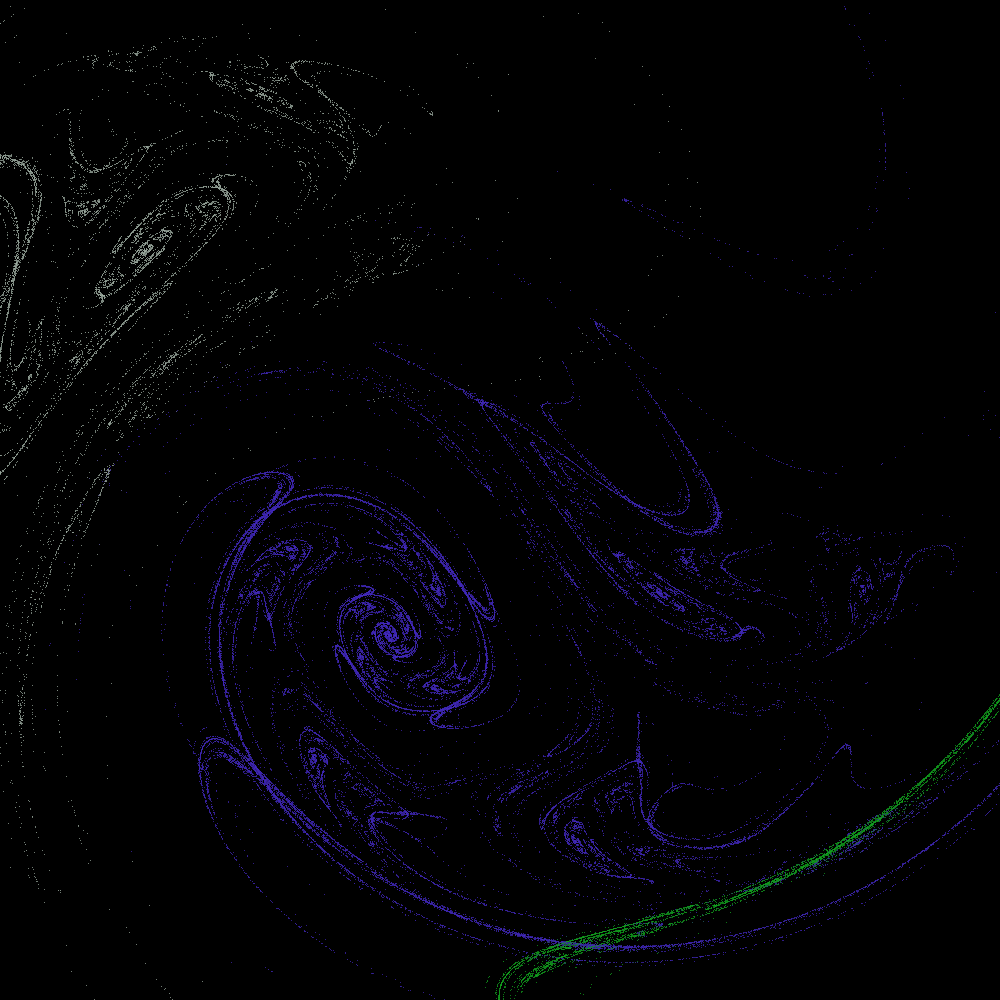
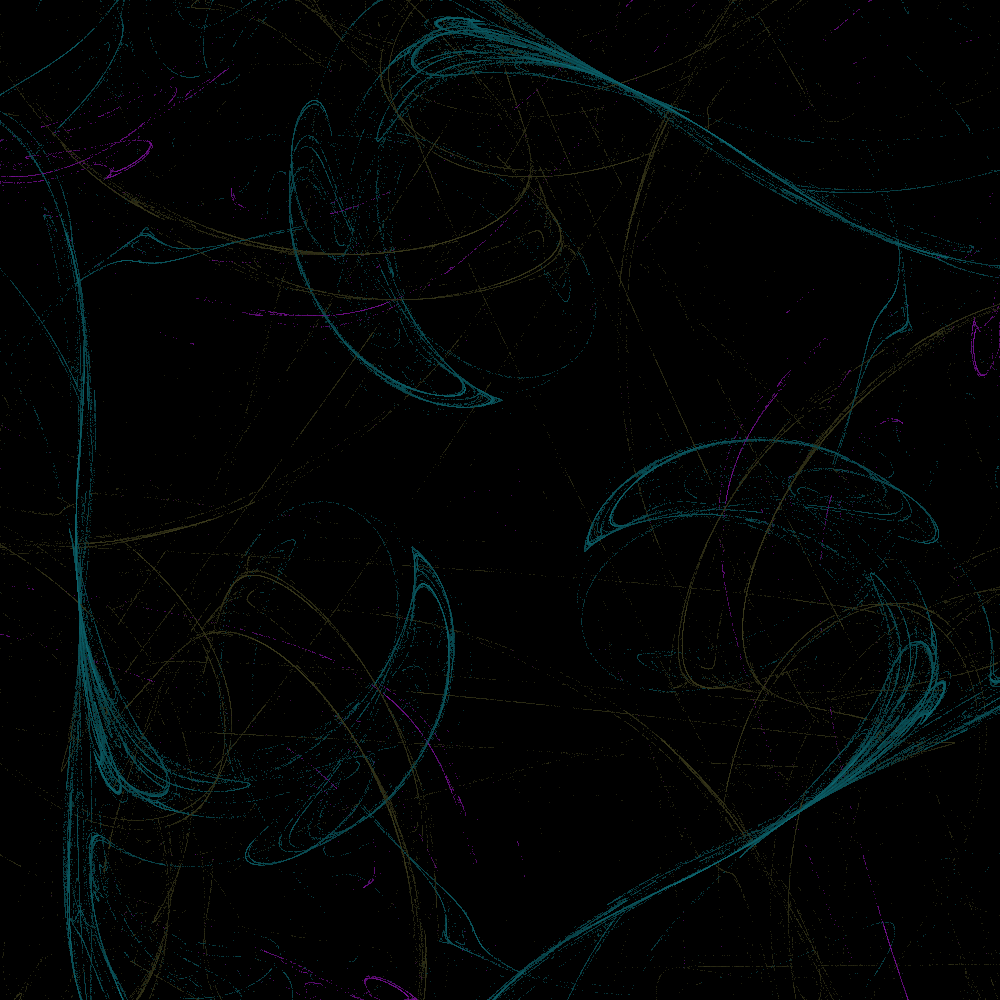
added timer decorator

diff --git a/src/core/fractal_manager.py b/src/core/fractal_manager.py
@@ -23,7 +23,7 @@ from src.visualization.image_renderer import create_fractal_image
 from src.visualization.gamma_correction import gamma_correction
 from src.visualization.scaling import scale_to_image_coordinates
 from src.core.creating_pixel import create_pixel, combine_pixels
-
+from src.timing_decorator import timing_decorator
 
 def process_single_start_point(
     args: tuple[UserData, list, list]
@@ -85,7 +85,8 @@ class Manager:
         ]
         # Генерация соответствующих вероятностей для трансформаций
         self.affine_probabilities = generate_probabilities(affine_transformations_num)
-
+        
+    @timing_decorator
     def create_fractal_flame(self, multistream: bool = False) -> None:
         """
         Создание фрактального изображения, с возможной параллелизацией процессов.

diff --git a/src/main.py b/src/main.py
@@ -7,24 +7,20 @@ from src.core.fractal_manager import Manager
 logging.basicConfig()
 logging.getLogger().setLevel(logging.INFO)
 logger = logging.getLogger(__name__)
-import time
-
+ 
 
 def main() -> None:
     logger.info(platform.python_version())
     try:
         cli = CommandLineInterface()
         user_data = cli.get_user_data()
-        start_time = time.time()
-
+         
         manager = Manager(user_data)
         manager.create_fractal_flame(multistream=True)
 
-        end_time = time.time()
-        execution_time = end_time - start_time
-        print(f"Время выполнения: {execution_time} секунд")
+       
     except Exception as e:
-        print(e)
+        print(e.__annotations__)
 
 
 if __name__ == "__main__":

diff --git a/src/timing_decorator.py b/src/timing_decorator.py
@@ -1,0 +1,12 @@
+import time
+
+# Декоратор для расчета времени выполнения функции
+def timing_decorator(func):
+    def wrapper(*args, **kwargs):
+        start_time = time.time()  # Начало замера
+        result = func(*args, **kwargs)  # Выполнение основной логики функции
+        end_time = time.time()  # Конец замера
+        execution_time = end_time - start_time  # Время выполнения
+        print(f"Время выполнения функции '{func.__name__}': {execution_time:.2f} секунд")
+        return result
+    return wrapper

diff --git a/src/config.py b/src/config.py
@@ -15,7 +15,7 @@ max_iteration_num = 50_000_000
 affine_transformations_num = 3
 
 # кол-во стартовых точек
-count_start_points = 2
+count_start_points = 4
 
 # левая и правая границы для коэфициентов аффиннго преобразования
 left_bound_of_affine_coeffs = -1
@@ -29,7 +29,7 @@ discarded_iteration_number = 50
 gamma_coeff = 3.5
 
 # параметр симметрии
-symmetry_axes_count = 1
+symmetry_axes_count = 3
 
 
 # словарь вариаций frozendict[name]= function
